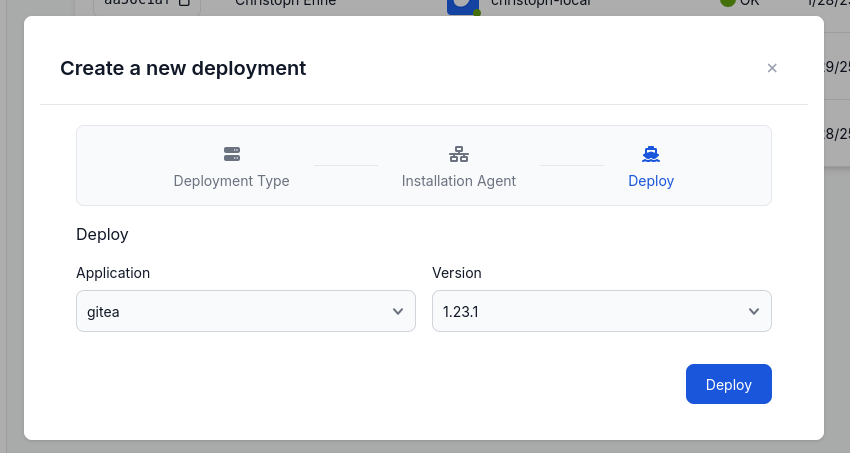
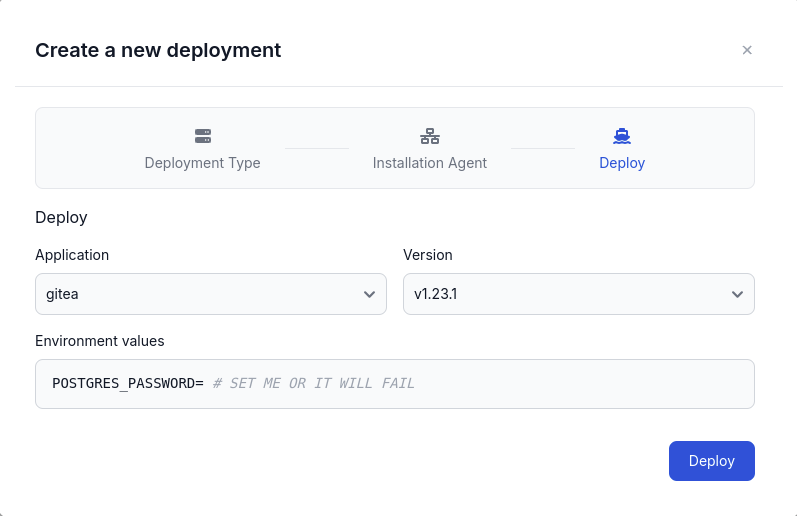
docs: add information about docker environment

diff --git a/src/content/docs/docs/guides/onboarding-a-docker-app.md b/src/content/docs/docs/guides/onboarding-a-docker-app.md
@@ -33,7 +33,11 @@ To add a new version to your Docker App, click on the **Manage versions** button
 
 A modal will open where you can add a new version by entering a name and the corresponding Docker Compose file.
 In this example, we will upload a file containing Gitea and a Postgres database,
-whose source can be found [here](https://github.com/docker/awesome-compose/blob/master/gitea-postgres/compose.yaml) (we did pin the version to `1.23.1`):
+whose source can be found [here](https://github.com/docker/awesome-compose/blob/master/gitea-postgres/compose.yaml) (we additionally pin the version to `1.23.1`
+and make the password an environment variable).
+
+You can optionally add a template for the environment variables that your Docker Compose file uses.
+The template will be shown to the user when they deploy this version to a deployment environment.
 
 ![Add version](../../../../assets/docs/guides/docker_add_version.png)
 
@@ -47,7 +51,8 @@ After you have created the version, you can see it in the list of versions:
 
 You can use the **Copy from** button to create a new version based on the existing one.
 
-If you are looking for a more automated and integrated experience in creating new versions, take a look at our [SDKs](/docs/integrations/sdk).
+If you are looking for a more automated and integrated experience in creating new versions, 
+take a look at our [GitHub Action](/docs/integrations/gh-action) or [SDKs](/docs/integrations/sdk).
 
 ## Creating a new deployment
 
@@ -67,9 +72,14 @@ On the next screen, you will find the instructions to connect your deployment en
 
 ![Install agent](../../../../assets/docs/guides/docker_deployment_connect.png)
 
-As the last step, you can deploy your newly onboarded docker app to the new deployment environment:
+As the last step, you can deploy your newly onboarded docker app to the new deployment environment, and set the specific environment variables:
 
 ![Deploy app](../../../../assets/docs/guides/docker_deployment_deploy.png)
+
+**Environment Variables**
+
+The entered environment variables will be passed unmodified to the `docker compose` process via the `--env-file` argument.
+For more information on how to use them, please refer to the [official Docker documentation](https://docs.docker.com/compose/how-tos/environment-variables/).
 
 ### Use an existing deployment environment
 
